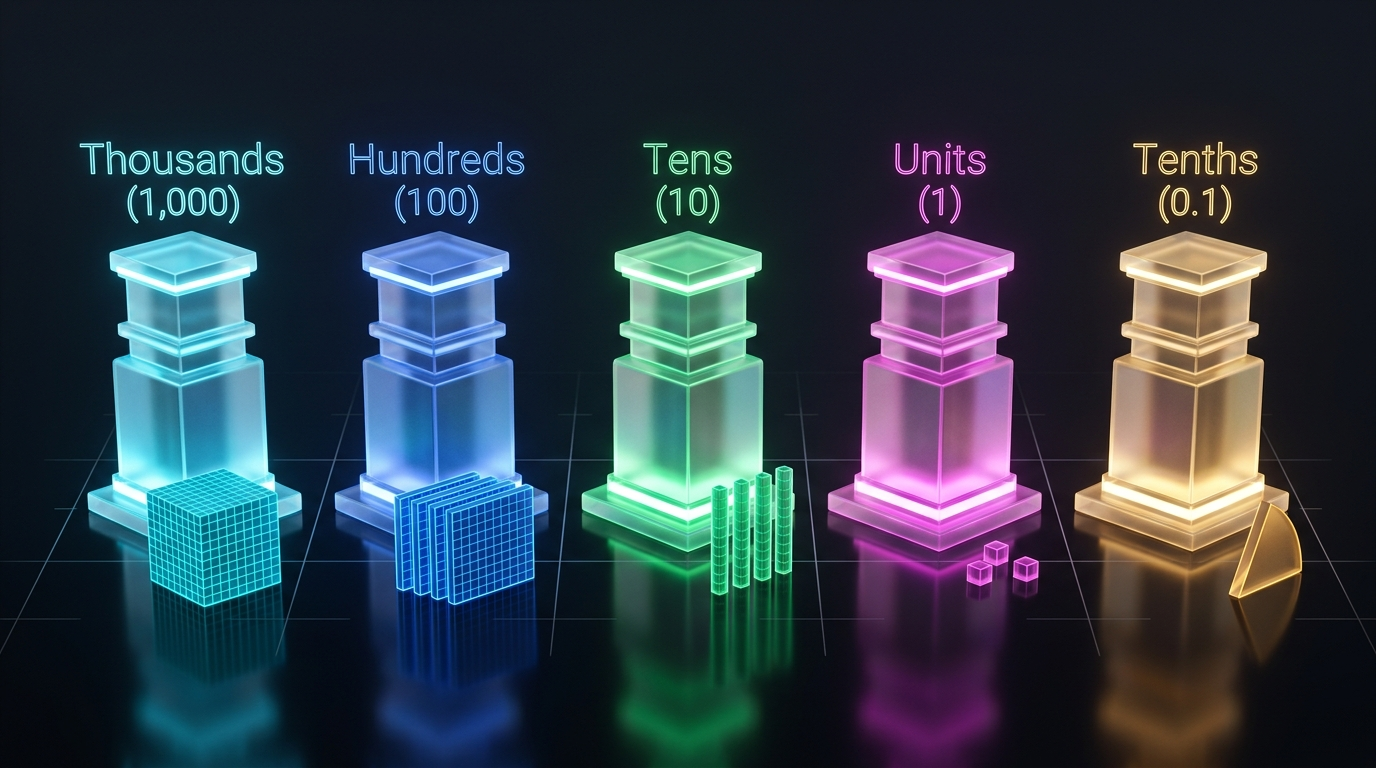
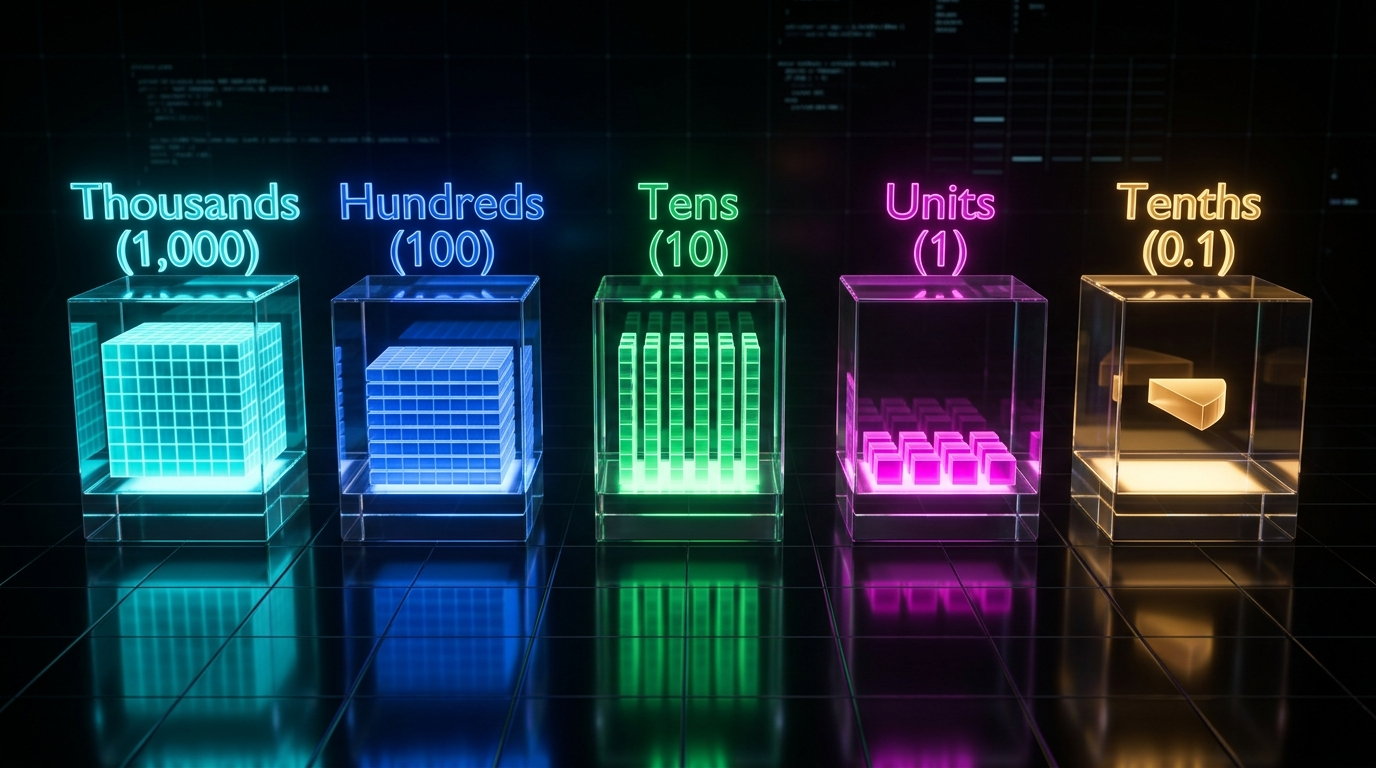
feat(media): enhance hero visual sizing to 580px, add HD renders for place value & ordering numbers, and enable click-to-enlarge lightbox

diff --git a/assets/css/mfs-revision.css b/assets/css/mfs-revision.css
@@ -1705,34 +1705,50 @@ p {
 
 .revision-hero-grid {
   display: grid;
-  grid-template-columns: 1fr 380px;
-  gap: 36px;
+  grid-template-columns: minmax(0, 1.15fr) minmax(460px, 580px);
+  gap: 40px;
   align-items: center;
+}
+
+@media (max-width: 1280px) {
+  .revision-hero-grid {
+    grid-template-columns: minmax(0, 1.1fr) 460px;
+    gap: 32px;
+  }
 }
 
 @media (max-width: 1024px) {
   .revision-hero-grid {
     grid-template-columns: 1fr;
-    gap: 24px;
+    gap: 28px;
   }
 }
 
 .revision-hero-visual-card {
   background: rgba(255, 255, 255, 0.08);
   border: 1px solid rgba(255, 255, 255, 0.2);
-  border-radius: 16px;
-  padding: 12px;
-  box-shadow: 0 16px 36px -8px rgba(0, 0, 0, 0.35);
-  backdrop-filter: blur(8px);
+  border-radius: 18px;
+  padding: 14px;
+  box-shadow: 0 20px 45px -10px rgba(0, 0, 0, 0.45);
+  backdrop-filter: blur(10px);
+  transition: transform 0.25s ease, box-shadow 0.25s ease, border-color 0.25s ease;
+}
+
+.revision-hero-visual-card:hover {
+  transform: translateY(-2px);
+  box-shadow: 0 24px 50px -8px rgba(2, 132, 199, 0.25), 0 20px 45px -10px rgba(0, 0, 0, 0.5);
+  border-color: rgba(56, 189, 248, 0.4);
 }
 
 .revision-hero-img-wrap {
   width: 100%;
-  height: 200px;
+  aspect-ratio: 16 / 9;
   border-radius: 12px;
   overflow: hidden;
   position: relative;
   border: 1px solid rgba(255, 255, 255, 0.15);
+  background: #020617;
+  cursor: zoom-in;
 }
 
 .revision-hero-img-wrap img {
@@ -1740,12 +1756,18 @@ p {
   height: 100%;
   object-fit: cover;
   display: block;
+  image-rendering: -webkit-optimize-contrast;
+  transition: transform 0.35s ease;
+}
+
+.revision-hero-img-wrap:hover img {
+  transform: scale(1.025);
 }
 
 .revision-hero-caption-bar {
-  padding: 10px 12px 6px 12px;
-  font-size: 0.86rem;
-  line-height: 1.45;
+  padding: 12px 14px 8px 14px;
+  font-size: 0.92rem;
+  line-height: 1.5;
   color: #e2e8f0;
 }
 
@@ -1754,10 +1776,74 @@ p {
   align-items: center;
   gap: 6px;
   color: #38bdf8;
-  font-size: 0.78rem;
+  font-size: 0.8rem;
   letter-spacing: 0.05em;
   text-transform: uppercase;
   margin-bottom: 4px;
+}
+
+/* Hero Image Lightbox Styles */
+#mfs-image-lightbox {
+  display: none;
+  position: fixed;
+  inset: 0;
+  z-index: 99999;
+  align-items: center;
+  justify-content: center;
+}
+#mfs-image-lightbox.active {
+  display: flex;
+}
+.mfs-lightbox-backdrop {
+  position: absolute;
+  inset: 0;
+  background: rgba(7, 13, 30, 0.88);
+  backdrop-filter: blur(12px);
+  -webkit-backdrop-filter: blur(12px);
+}
+.mfs-lightbox-content {
+  position: relative;
+  z-index: 1;
+  max-width: 92vw;
+  max-height: 90vh;
+  display: flex;
+  align-items: center;
+  justify-content: center;
+  animation: mfsLightboxZoom 0.25s ease-out;
+}
+@keyframes mfsLightboxZoom {
+  from { opacity: 0; transform: scale(0.92); }
+  to { opacity: 1; transform: scale(1); }
+}
+.mfs-lightbox-img {
+  max-width: 92vw;
+  max-height: 88vh;
+  object-fit: contain;
+  border-radius: 12px;
+  box-shadow: 0 25px 50px -12px rgba(0, 0, 0, 0.7);
+  border: 1px solid rgba(255, 255, 255, 0.2);
+}
+.mfs-lightbox-close {
+  position: absolute;
+  top: -46px;
+  right: 0;
+  background: rgba(255, 255, 255, 0.15);
+  border: 1px solid rgba(255, 255, 255, 0.3);
+  color: #ffffff;
+  width: 40px;
+  height: 40px;
+  border-radius: 50%;
+  font-size: 1.25rem;
+  cursor: pointer;
+  display: flex;
+  align-items: center;
+  justify-content: center;
+  transition: all 0.2s ease;
+}
+.mfs-lightbox-close:hover {
+  background: #ef4444;
+  border-color: #ef4444;
+  transform: rotate(90deg);
 }
 
 /* Whiteboard Sketch Container */

diff --git a/assets/js/mfs-revision.js b/assets/js/mfs-revision.js
@@ -335,3 +335,48 @@ function jumpTopicTo(seconds) {
 window.switchTopicVideo = switchTopicVideo;
 window.jumpTopicTo = jumpTopicTo;
 
+/* ==========================================================================
+   HERO IMAGE FULL-RESOLUTION LIGHTBOX
+   ========================================================================== */
+document.addEventListener('DOMContentLoaded', function() {
+  const heroImgWrap = document.querySelector('.revision-hero-img-wrap');
+  if (!heroImgWrap) return;
+  const heroImg = heroImgWrap.querySelector('img');
+  if (!heroImg) return;
+
+  heroImgWrap.setAttribute('title', 'Click to view full-resolution high-definition visual');
+
+  heroImgWrap.addEventListener('click', function() {
+    let overlay = document.getElementById('mfs-image-lightbox');
+    if (!overlay) {
+      overlay = document.createElement('div');
+      overlay.id = 'mfs-image-lightbox';
+      overlay.innerHTML = `
+        <div class="mfs-lightbox-backdrop"></div>
+        <div class="mfs-lightbox-content">
+          <img src="" alt="Full-Resolution Visual" class="mfs-lightbox-img" />
+          <button type="button" class="mfs-lightbox-close" aria-label="Close image"><i class="fa-solid fa-xmark"></i></button>
+        </div>
+      `;
+      document.body.appendChild(overlay);
+
+      const closeLightbox = () => {
+        overlay.classList.remove('active');
+        document.body.style.overflow = '';
+      };
+
+      overlay.querySelector('.mfs-lightbox-backdrop').addEventListener('click', closeLightbox);
+      overlay.querySelector('.mfs-lightbox-close').addEventListener('click', closeLightbox);
+      document.addEventListener('keydown', function(e) {
+        if (e.key === 'Escape' && overlay.classList.contains('active')) closeLightbox();
+      });
+    }
+
+    const img = overlay.querySelector('.mfs-lightbox-img');
+    img.src = heroImg.currentSrc || heroImg.src;
+    img.alt = heroImg.alt;
+    overlay.classList.add('active');
+    document.body.style.overflow = 'hidden';
+  });
+});
+
